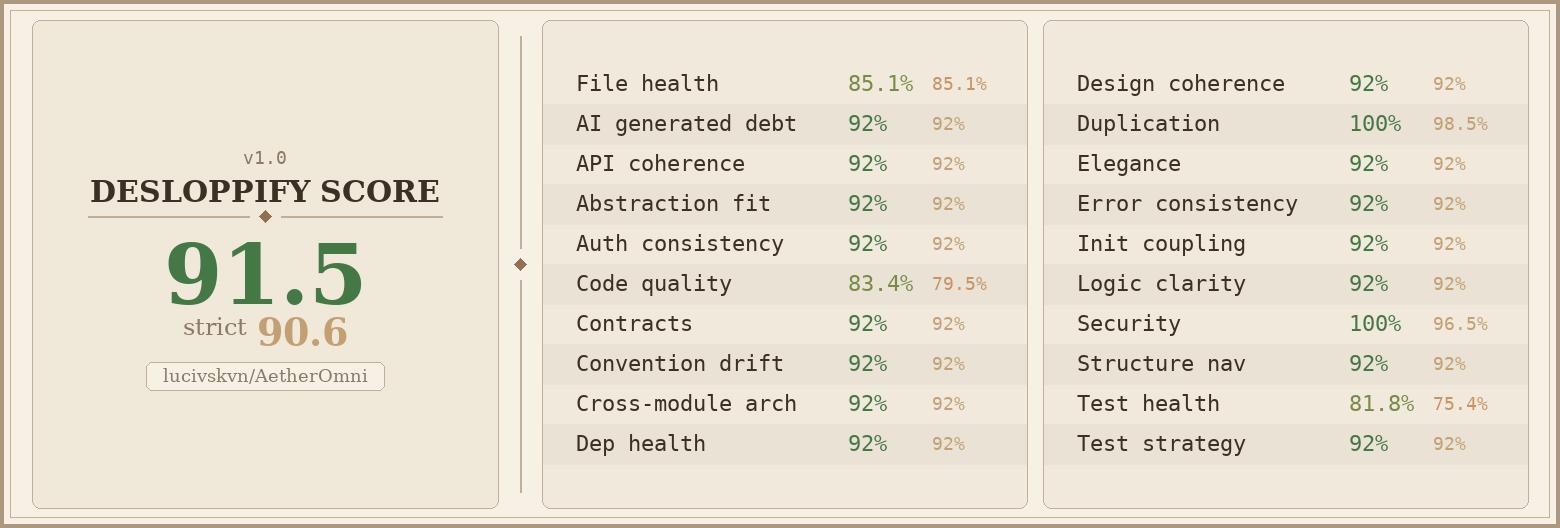
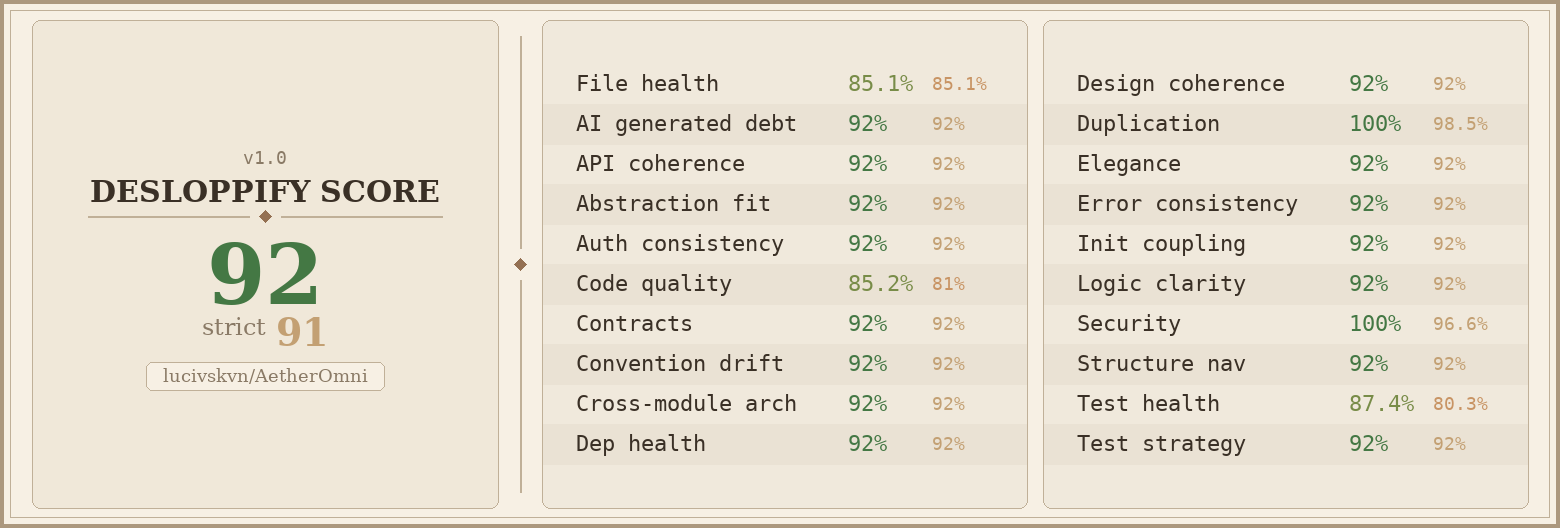
test(forms): add TurnstileAuthenticationForm unit tests and resolve Desloppify untested_module finding

Changed region(s): [[0.0923, 0.4545, 0.2462, 0.6667], [0.5538, 0.5152, 0.6462, 0.5455], [0.8923, 0.7576, 0.9538, 0.7879]]

diff --git a/extractor/tests/test_forms.py b/extractor/tests/test_forms.py
@@ -1,0 +1,26 @@
+from django.test import RequestFactory, SimpleTestCase, override_settings
+
+from extractor.forms import TurnstileAuthenticationForm
+
+
+class TurnstileAuthenticationFormTestCase(SimpleTestCase):
+    """Unit tests for TurnstileAuthenticationForm captcha enforcement."""
+
+    def setUp(self):
+        self.factory = RequestFactory()
+
+    @override_settings(CF_TURNSTILE_SITE_KEY="dummy-turnstile-key")
+    def test_missing_captcha_token_raises_validation_error(self):
+        request = self.factory.post("/login/", data={"username": "user", "password": "pwd"})
+        form = TurnstileAuthenticationForm(request=request, data={"username": "user", "password": "pwd"})
+        self.assertFalse(form.is_valid())
+        self.assertIn("CAPTCHA verification is required", form.errors.get("__all__", [""])[0])
+
+    @override_settings(CF_TURNSTILE_SITE_KEY="")
+    def test_disabled_turnstile_skips_captcha_check(self):
+        request = self.factory.post("/login/", data={"username": "user", "password": "pwd"})
+        form = TurnstileAuthenticationForm(request=request, data={"username": "user", "password": "pwd"})
+        # Will fail username/password auth check, but NOT on captcha_required
+        self.assertFalse(form.is_valid())
+        errors = form.errors.get("__all__", [])
+        self.assertNotIn("CAPTCHA verification is required", " ".join(errors))

diff --git a/README.md b/README.md
@@ -13,8 +13,8 @@
 [![Code Smells](https://sonarcloud.io/api/project_badges/measure?project=lucivskvn_AetherOmni&metric=code_smells)](https://sonarcloud.io/summary/new_code?id=lucivskvn_AetherOmni)
 [![Duplicated Lines](https://sonarcloud.io/api/project_badges/measure?project=lucivskvn_AetherOmni&metric=duplicated_lines_density)](https://sonarcloud.io/summary/new_code?id=lucivskvn_AetherOmni)
 [![Lines of Code](https://sonarcloud.io/api/project_badges/measure?project=lucivskvn_AetherOmni&metric=ncloc)](https://sonarcloud.io/summary/new_code?id=lucivskvn_AetherOmni)
-[![Version](https://img.shields.io/badge/version-v1.5.609-blue.svg)](https://github.com/lucivskvn/AetherOmni/releases)
-[![Commit](https://img.shields.io/badge/commit-41e3c16-lightgrey.svg)](https://github.com/lucivskvn/AetherOmni/commits/main)
+[![Version](https://img.shields.io/badge/version-v1.5.610-blue.svg)](https://github.com/lucivskvn/AetherOmni/releases)
+[![Commit](https://img.shields.io/badge/commit-988543f-lightgrey.svg)](https://github.com/lucivskvn/AetherOmni/commits/main)
 [![License](https://img.shields.io/badge/License-AGPL--3.0-blue.svg)](LICENSE)
 <!-- /auto:badges -->
 
